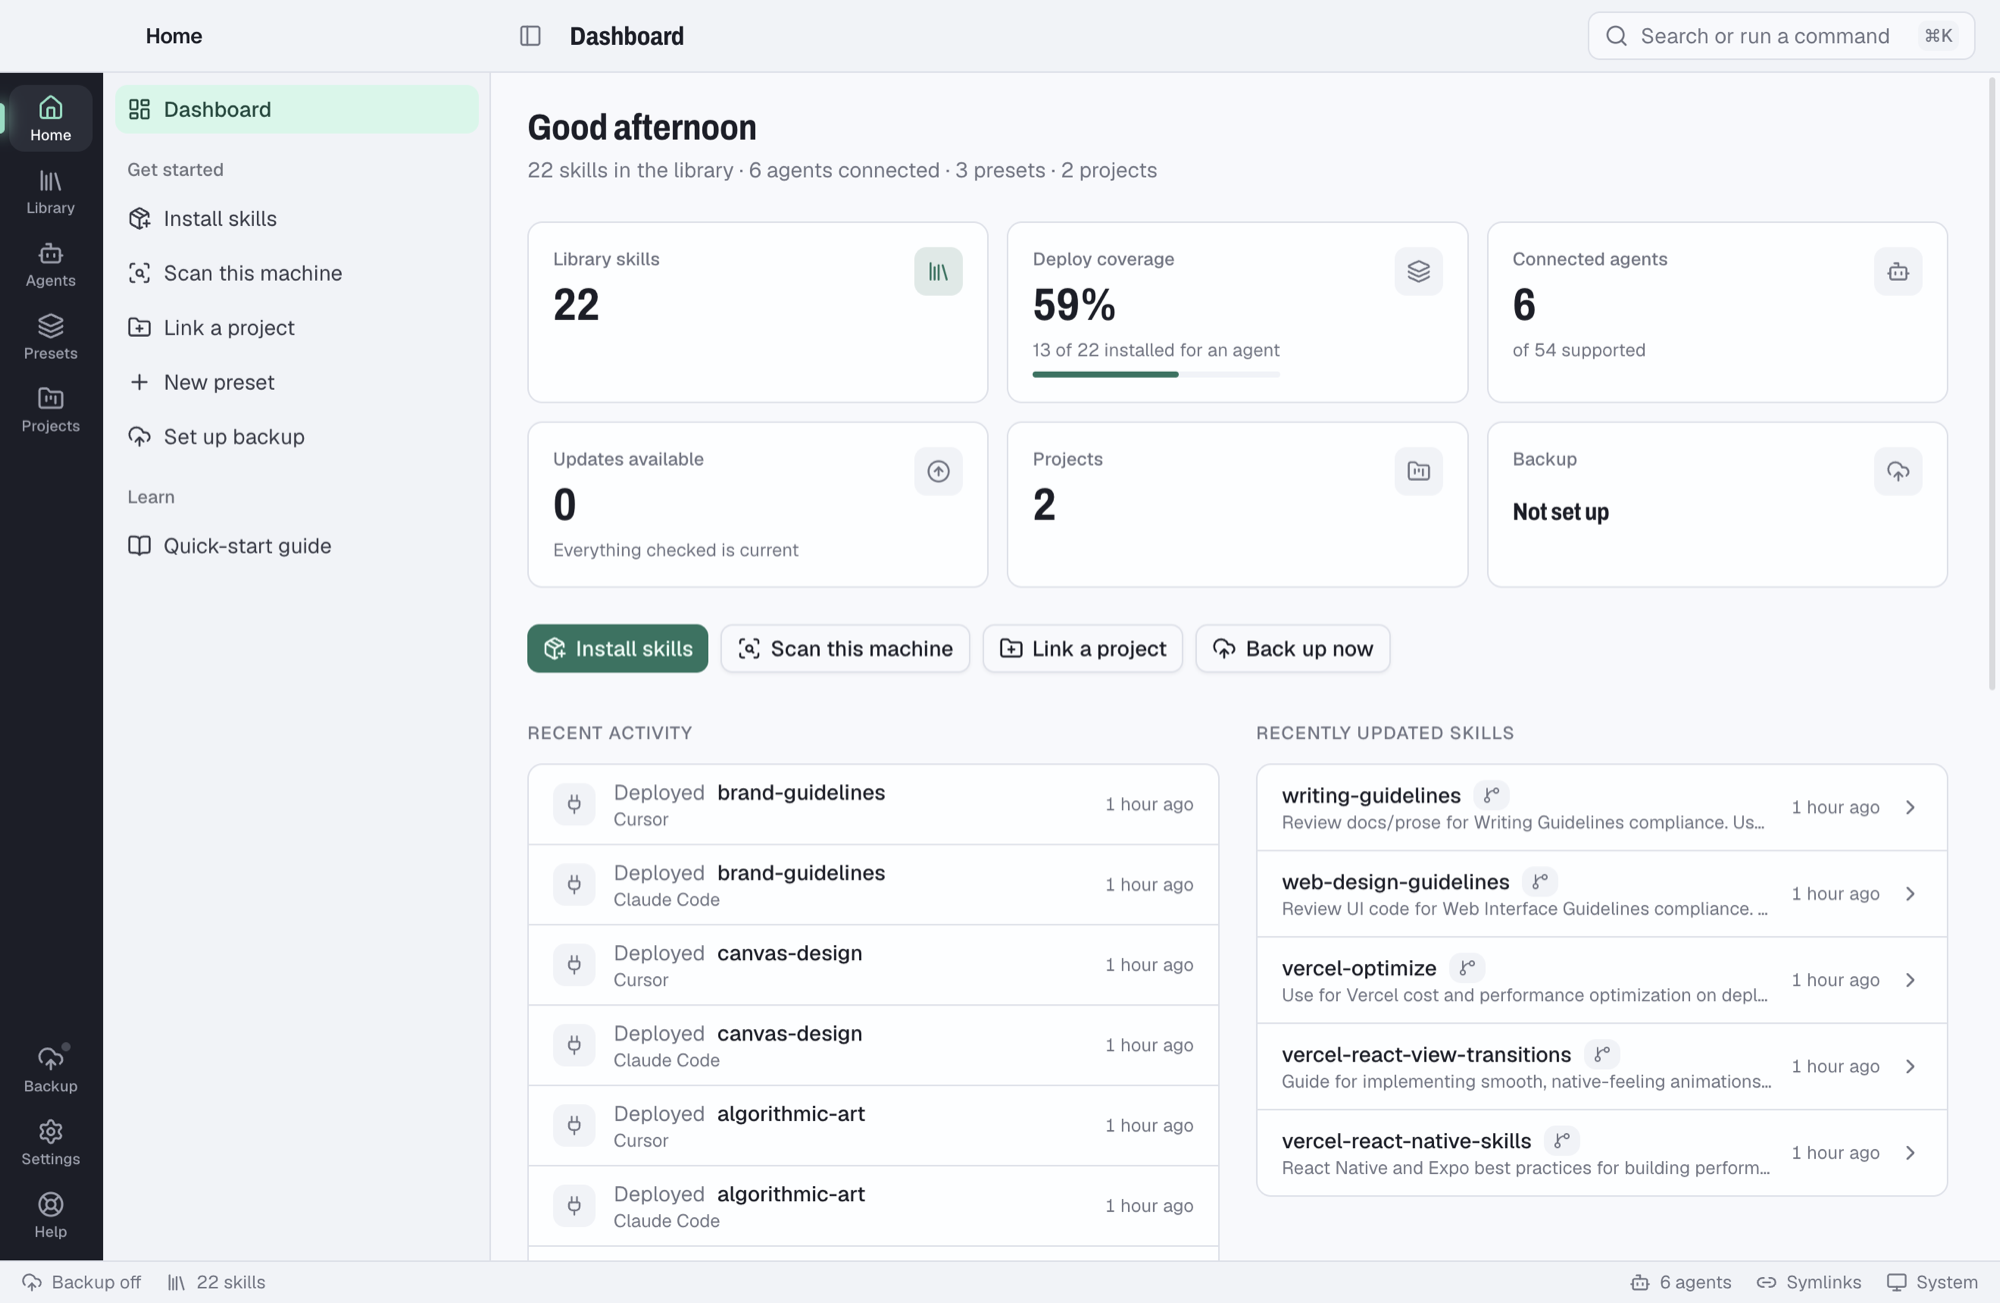
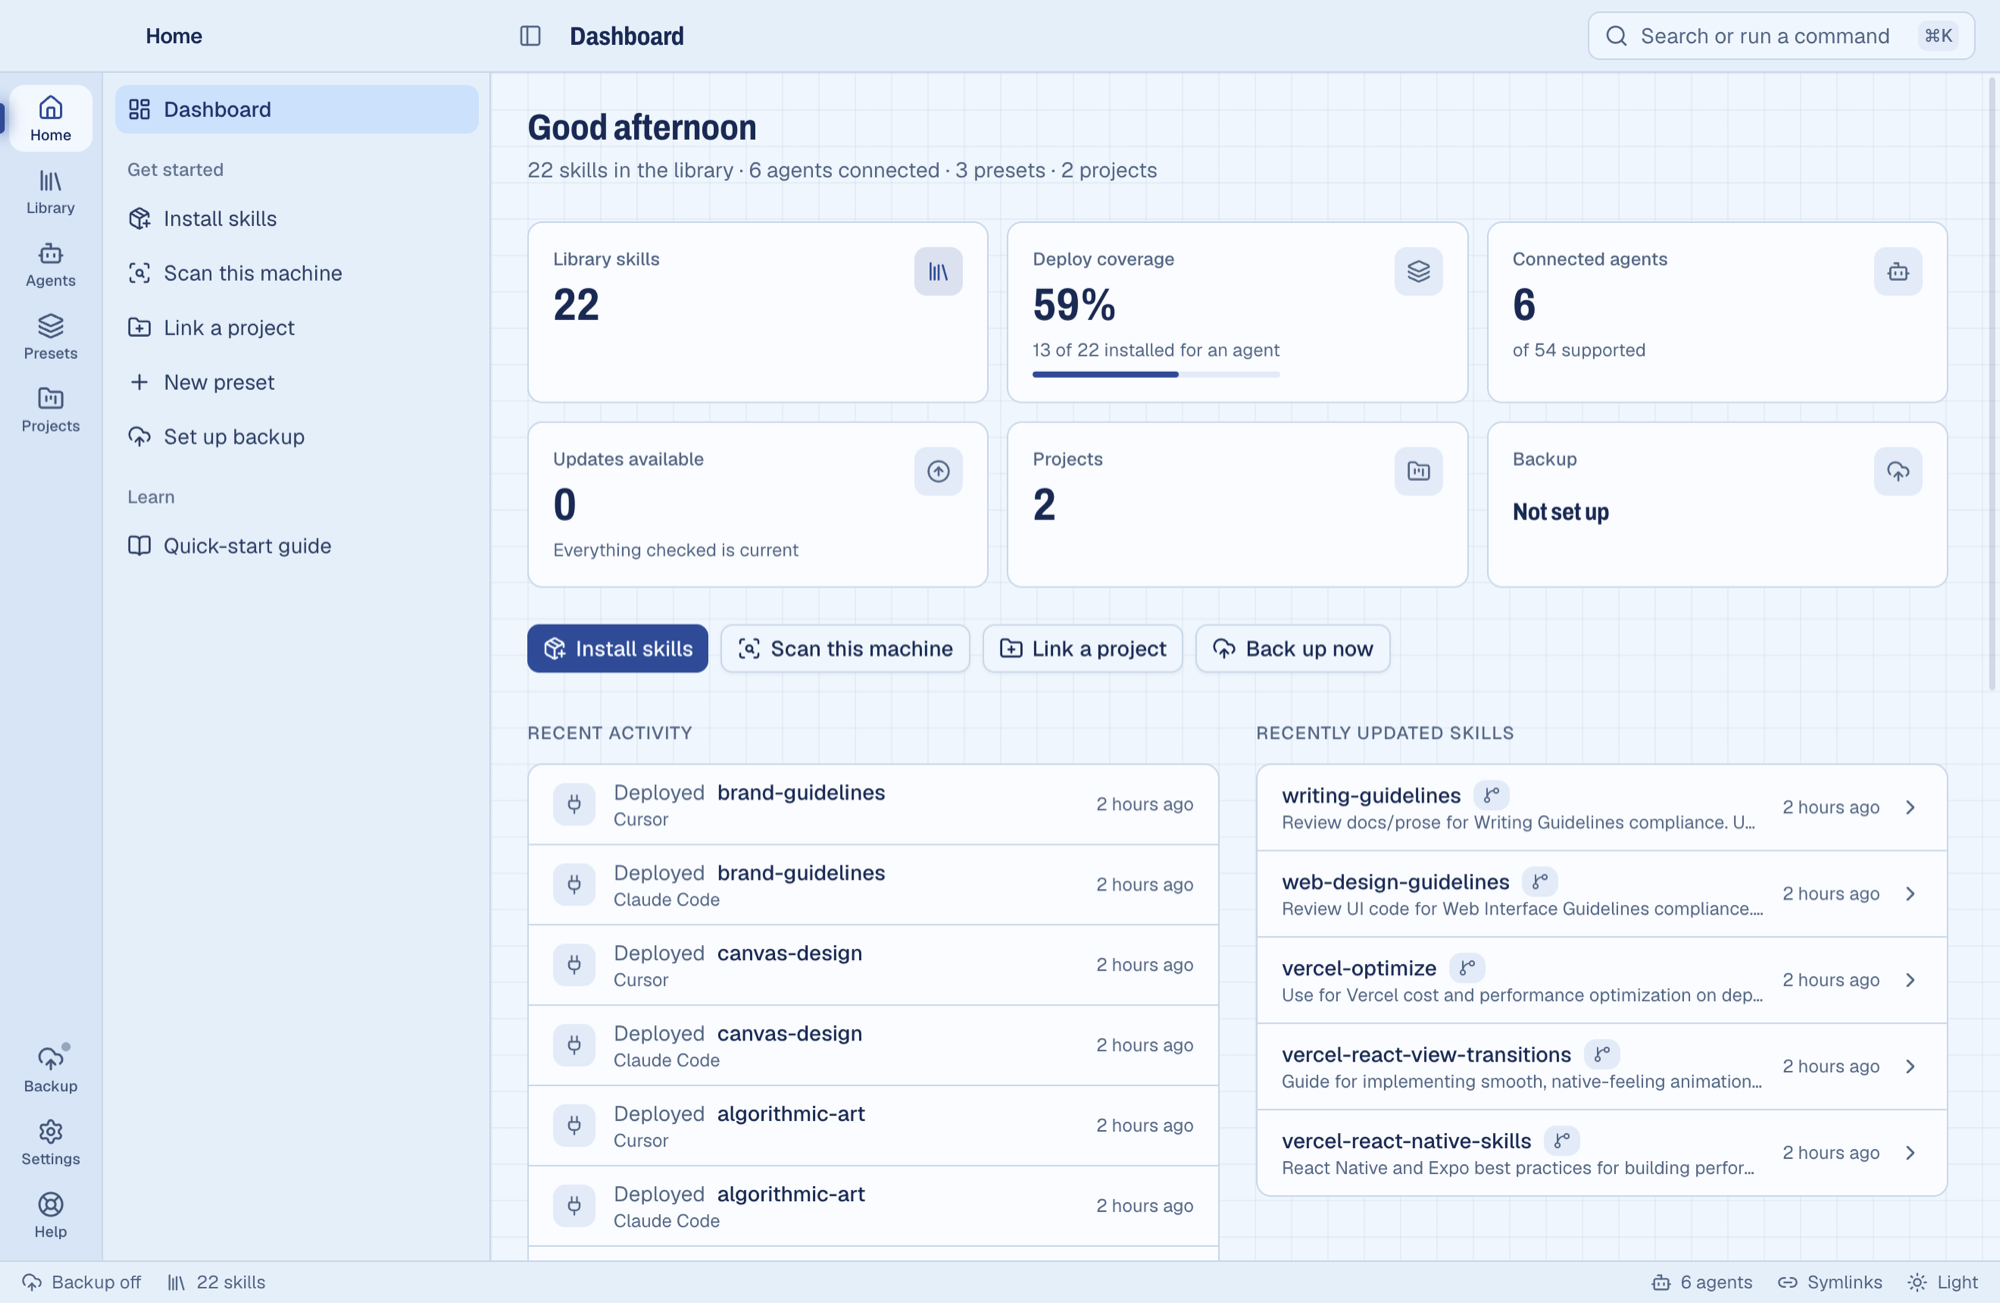
docs: show the four palettes in the readme and features list

diff --git a/README.md b/README.md
@@ -44,9 +44,11 @@ itself.
 
 ![The marketplace: popular skills with one-click install](docs/screenshots/marketplace.png)
 
-**Dark mode.** Light, dark or follow the system, from the status bar or Settings.
+**Colours.** Four palettes (Blueprint, Risograph, Flight gear, Iris & butter), each with a light and a dark version. Pick one in Settings or from the status bar; Loadout remembers it.
 
-![The library in dark mode](docs/screenshots/library-dark.png)
+![The palette picker in Settings: four palettes, each shown in light and dark](docs/screenshots/palettes.png)
+
+![The library in Blueprint's dark mode](docs/screenshots/library-dark.png)
 
 ## Features
 
@@ -64,7 +66,7 @@ itself.
 - **Command line:** a `loadout` CLI with JSON output, and a bundled skill that lets your agents manage skills themselves.
 - **App updates:** Loadout updates itself and checks every download against the release checksum.
 - **Storage:** everything lives in `~/.loadout`, with sizes, clean-up, a movable library and a remove-everything button.
-- **App:** dashboard, command palette (`⌘K`), keyboard shortcuts, light and dark themes, tray icon and status bar.
+- **App:** dashboard, command palette (`⌘K`), keyboard shortcuts, four colour palettes in light and dark, tray icon and status bar.
 
 Every feature in detail, current limitations and what still needs testing:
 [docs/FEATURES.md](docs/FEATURES.md).

diff --git a/docs/FEATURES.md b/docs/FEATURES.md
@@ -237,7 +237,7 @@ For planned work and detailed status, see [PLAN.md](PLAN.md) and [TODO.md](../TO
   activity and recently updated skills.
 - Command palette (`⌘K` / `Ctrl+K`) for skills, presets, projects, agents and actions, including
   "Open a skill in the editor" (`⌘P` / `Ctrl+P`).
-- Light, dark and system theme (from the status bar or Settings), four text sizes.
+- Four colour palettes (Blueprint, Risograph, Flight gear, Iris & butter), each in light and dark, plus light, dark or system mode. Pick them in Settings (with a preview of each) or from the status bar; the choice is remembered and applied before the window first draws. Four text sizes.
 - Tray icon, and a choice of what the close button does: ask, keep in tray or quit.
 - Single instance, remembered window size, links open in your browser.
 - Activity history, rotating logs, export logs as a zip, copy diagnostics, crash notice.
